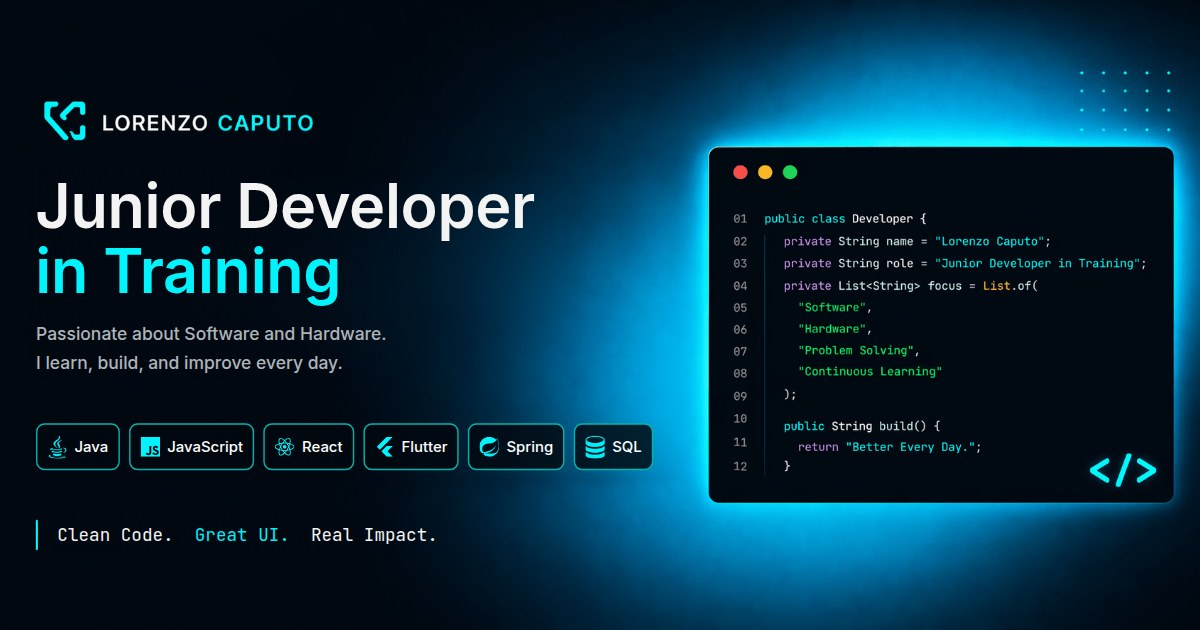
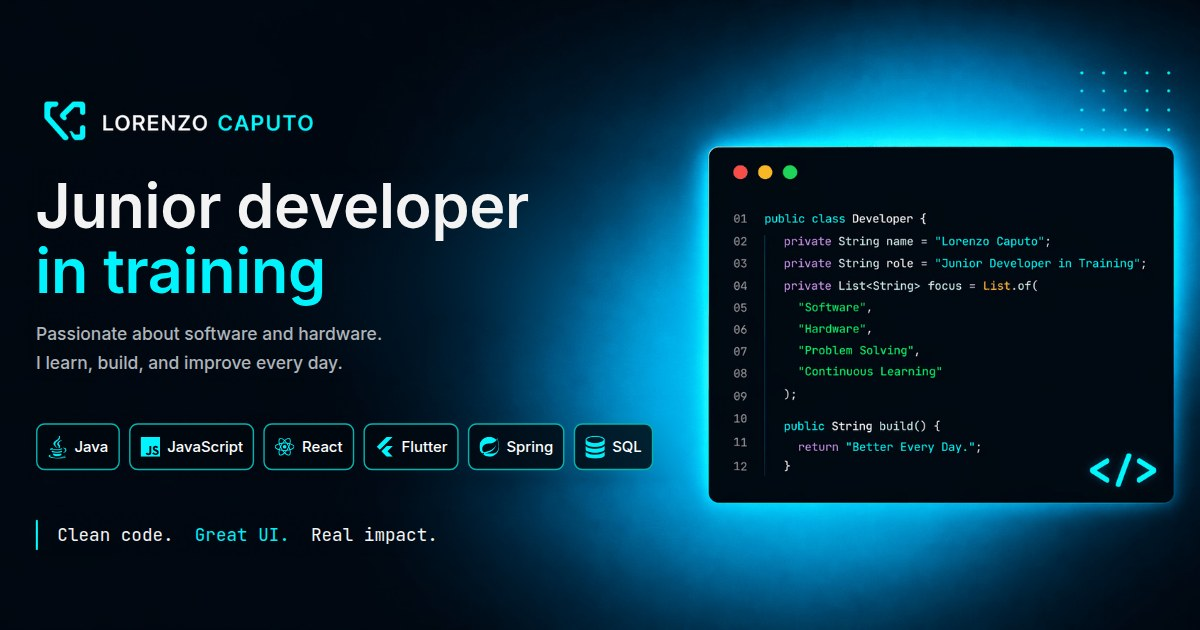
Testi allineati in anteprime social, README, titoli e manifest (#21)

Changed region(s): [[0.185, 0.2714, 0.4625, 0.3921], [0.0617, 0.3921, 0.3083, 0.4825], [0.1542, 0.5127, 0.3392, 0.5429]]

diff --git a/scripts/social-preview/render.js b/scripts/social-preview/render.js
@@ -11,15 +11,15 @@ const root = resolve(here, '../..')
 const previews = {
   it: {
     output: 'public/social-preview-it.jpg',
-    headline: ['Junior Developer', 'in formazione'],
+    headline: ['Junior developer', 'in formazione'],
     subtitle: ['Appassionato di software e hardware.', 'Imparo, costruisco e miglioro ogni giorno.'],
     tagline: ['Codice pulito.', 'UI curata.', 'Impatto reale.'],
   },
   en: {
     output: 'public/social-preview-en.jpg',
-    headline: ['Junior Developer', 'in Training'],
-    subtitle: ['Passionate about Software and Hardware.', 'I learn, build, and improve every day.'],
-    tagline: ['Clean Code.', 'Great UI.', 'Real Impact.'],
+    headline: ['Junior developer', 'in training'],
+    subtitle: ['Passionate about software and hardware.', 'I learn, build, and improve every day.'],
+    tagline: ['Clean code.', 'Great UI.', 'Real impact.'],
   },
 }
 

diff --git a/src/content/en.js b/src/content/en.js
@@ -9,11 +9,11 @@ import {
 
 export const en = {
   meta: {
-    title: 'Lorenzo Caputo | Junior Developer in Training',
+    title: 'Lorenzo Caputo — Portfolio',
     description: 'Portfolio of Lorenzo Caputo, a junior developer in training at ITS Academy Apulia Digital Maker: project, background and skills.',
-    ogTitle: 'Lorenzo Caputo | Junior Developer in Training',
+    ogTitle: 'Lorenzo Caputo — Portfolio',
     ogDescription: 'Junior developer in training: background, skills and the My Tracking App project.',
-    twitterTitle: 'Lorenzo Caputo | Junior Developer in Training',
+    twitterTitle: 'Lorenzo Caputo — Portfolio',
     twitterDescription: 'Junior developer in training: background, skills and the My Tracking App project.',
     ogLocale: 'en_US',
     image: '/social-preview-en.jpg',

diff --git a/tests/portfolio.spec.js b/tests/portfolio.spec.js
@@ -144,7 +144,7 @@ test.describe('prerendered pages', () => {
   test('serve localized content and metadata at / and /en/', async ({ page }) => {
     await page.goto('./en/')
     await expect(page.locator('html')).toHaveAttribute('lang', 'en')
-    await expect(page).toHaveTitle('Lorenzo Caputo | Junior Developer in Training')
+    await expect(page).toHaveTitle('Lorenzo Caputo — Portfolio')
     await expect(page.locator('link[rel="canonical"]')).toHaveAttribute('href', 'https://lorenzocaputo.is-a.dev/en/')
     await expect(page.locator('link[hreflang="it"]')).toHaveAttribute('href', 'https://lorenzocaputo.is-a.dev/')
 

diff --git a/index.html b/index.html
@@ -31,7 +31,7 @@
         "name": "Lorenzo Caputo",
         "url": "https://lorenzocaputo.is-a.dev/",
         "image": "https://lorenzocaputo.is-a.dev/social-preview-it.jpg",
-        "jobTitle": "Junior Developer in Training",
+        "jobTitle": "Junior developer in training",
         "address": { "@type": "PostalAddress", "addressLocality": "Lecce", "addressCountry": "IT" },
         "sameAs": [
           "https://github.com/lorenzocaputodev",

diff --git a/README.md b/README.md
@@ -8,45 +8,46 @@
 
 ## 🇮🇹 Italiano
 
-✨ Portfolio personale sviluppato per presentare in modo chiaro, moderno e coerente il mio percorso, il mio approccio al lavoro e i progetti che sto costruendo.
+✨ Il mio portfolio personale: chi sono, il percorso che sto facendo e i progetti che sto costruendo.
 
-L’idea non è creare un semplice biglietto da visita, ma uno spazio curato dove raccogliere **identità, crescita tecnica e proof of work reale**.
+Non vuole essere un semplice biglietto da visita, ma un posto ordinato dove mostrare **chi sono, come sto crescendo e cosa ho realizzato davvero**.
 
-### 👋 Overview
+### 👋 In breve
 
-Questo portfolio nasce per raccontare in modo credibile chi sono oggi:
+Il sito racconta chi sono oggi:
 
-- **Junior Developer in formazione**
-- orientato a costruire progetti concreti
-- attento a ordine, qualità e dettagli
-- interessato sia al **software** sia al lato **hardware, sistemi e troubleshooting**
+- **junior developer in formazione** all'ITS Academy Apulia Digital Maker
+- con la voglia di costruire progetti concreti
+- attento all'ordine, alla qualità e ai dettagli
+- interessato sia al **software** sia all'**hardware**, ai sistemi e alla risoluzione dei problemi
 
-Il sito mette al centro soprattutto **My Tracking App**, il progetto personale che rappresenta meglio il mio modo di lavorare e il livello di cura che voglio portare nei miei progetti.
+Al centro c'è **My Tracking App**, il progetto personale che mostra meglio il mio modo di lavorare.
 
-### 🎯 Main Goals
+### 🎯 Obiettivi
 
-- presentare il mio profilo in modo professionale ma autentico
-- valorizzare un progetto reale come prova concreta
-- costruire una presenza online ordinata, leggibile e curata
-- mantenere un design premium, ma sobrio e coerente
-- offrire una buona esperienza sia su desktop che su mobile
+- presentarmi in modo professionale ma autentico
+- mostrare un progetto reale, pubblicato e usato
+- avere una presenza online ordinata e facile da leggere
+- un design curato ma sobrio
+- funzionare bene sia su computer sia su telefono
 
-### 🚀 Featured Project — My Tracking App
+### 🚀 Progetto in evidenza — My Tracking App
 
-Applicazione sviluppata per il tracciamento quotidiano di prodotti e utilizzi, con focus su **praticità, chiarezza dei dati e continuità d’uso**.
+App Android sviluppata in Flutter per tenere traccia dei consumi quotidiani, pensata per essere **pratica, chiara e comoda da usare ogni giorno**.
 
-- tracking multi-prodotto
-- dashboard con dati di utilizzo
-- cronologia e analytics
-- reminder periodici
-- widget Android
-- import/export CSV
-- supporto tema dark / light / system
-- approccio local-first
+- più prodotti da seguire, con scorta e costi
+- schermata principale con il conteggio del giorno e gli ultimi 7 giorni
+- cronologia per giorni, settimane e mesi, con statistiche
+- obiettivi, badge e piano di riduzione
+- promemoria periodici
+- widget Android in tre dimensioni
+- backup CSV (esporta e importa)
+- tema scuro, chiaro o di sistema
+- nessun account: i dati restano sul telefono
 
 🔗 Repository progetto: [My Tracking App](https://github.com/lorenzocaputodev/my_tracking_app)
 
-### 🛠 Tech Stack
+### 🛠 Tecnologie
 
 - **Preact** (compatibile con React) + **Vite**, con HTML pre-generato in fase di build per ogni lingua (`/` italiano, `/en/` inglese)
 - **JavaScript**
@@ -99,31 +100,28 @@ public/                     # favicon, icone PWA, manifest, robots.txt, pagina 4
 
 Per modificare i testi basta intervenire in `src/content/en.js` e `src/content/it.js`, mantenendo la stessa struttura in entrambe le lingue.
 
-### 🎨 Frontend / Design Notes
+### 🎨 Design
 
-Questo progetto è stato costruito con attenzione particolare a:
+Nel costruire il sito ho curato in particolare:
 
-- gerarchia visiva
-- qualità del layout e degli spazi
-- coerenza tipografica
-- performance frontend
-- responsive behavior
-- micro-animazioni leggere e non invasive
+- gerarchia visiva, spazi e tipografia
+- velocità di caricamento
+- resa su schermi di ogni dimensione
+- animazioni leggere e mai invadenti
 - accessibilità
 
-Non è stato pensato come un template generico, ma come un portfolio personale con una direzione visiva precisa.
+Non è un template: è un portfolio personale con uno stile preciso.
 
-### 🤖 Notes
+### 🤖 Note
 
-Questo portfolio è stato progettato, curato e rifinito da me, con supporto mirato di strumenti AI in alcune fasi del lavoro, soprattutto per:
+Ho progettato e rifinito questo portfolio in prima persona, usando strumenti di AI come supporto in alcune fasi:
 
 - revisione del codice
-- refactor frontend
-- polishing del copy
-- ottimizzazione della struttura
-- refinement visivo e tecnico
+- riorganizzazione del frontend
+- revisione dei testi
+- rifiniture grafiche e tecniche
 
-L’AI è stata usata come supporto, non come sostituzione del mio lavoro: direzione, scelte finali, contenuti, validazione e rifinitura del progetto sono stati gestiti da me.
+L'AI è stata un aiuto, non un sostituto: direzione, scelte finali, contenuti e verifica sono miei.
 
 ### 📫 Contatti
 
@@ -137,41 +135,42 @@ Grazie per aver dato un’occhiata al progetto ✨
 
 ## 🇬🇧 English
 
-✨ A personal portfolio built to present my path, my approach to work and the projects I'm building in a clear, modern and consistent way.
+✨ My personal portfolio: who I am, the path I'm on and the projects I'm building.
 
-The goal isn't a simple business card, but a curated space that brings together **identity, technical growth and real proof of work**.
+It isn't meant to be a simple business card, but a tidy place to show **who I am, how I'm growing and what I've actually built**.
 
 ### 👋 Overview
 
-This portfolio aims to give an honest picture of who I am today:
+The site shows who I am today:
 
-- **Junior Developer in training**
-- focused on building concrete projects
+- **junior developer in training** at ITS Academy Apulia Digital Maker
+- keen on building concrete projects
 - attentive to order, quality and details
-- interested in both **software** and **hardware, systems and troubleshooting**
+- interested in both **software** and **hardware**, systems and troubleshooting
 
-The site centers on **My Tracking App**, the personal project that best represents how I work and the level of care I want to bring to my projects.
+At its center is **My Tracking App**, the personal project that best shows how I work.
 
 ### 🎯 Main Goals
 
-- present my profile in a professional yet authentic way
-- showcase a real project as concrete proof
-- build a tidy, readable and well-crafted online presence
-- keep a premium but restrained and consistent design
-- offer a good experience on both desktop and mobile
+- present myself in a professional yet authentic way
+- show a real project, published and in use
+- have a tidy, easy-to-read online presence
+- a polished but restrained design
+- work well on both computers and phones
 
 ### 🚀 Featured Project — My Tracking App
 
-An app for daily tracking of products and usage, focused on **practicality, clear data and continuity of use**.
+An Android app built with Flutter to keep track of daily consumption, designed to be **practical, clear and easy to use every day**.
 
-- multi-product tracking
-- usage dashboard
-- history and analytics
+- multiple products, with stock and costs
+- home screen with today's count and the last 7 days
+- history by day, week and month, with statistics
+- goals, badges and a reduction plan
 - periodic reminders
-- Android widgets
-- CSV import/export
-- dark / light / system theme
-- local-first approach
+- Android widgets in three sizes
+- CSV backup (export and import)
+- dark, light or system theme
+- no account: data stays on the phone
 
 🔗 Project repository: [My Tracking App](https://github.com/lorenzocaputodev/my_tracking_app)
 
@@ -205,9 +204,9 @@ The project structure is described in the Italian section above. To edit the cop
 
 ### 🤖 Notes
 
-I designed, curated and refined this portfolio myself, with targeted support from AI tools in some phases of the work, mainly for code review, frontend refactoring, copy polishing, structure optimization and visual/technical refinement.
+I designed and refined this portfolio myself, using AI tools as support in some phases: code review, frontend restructuring, copy review and visual/technical polish.
 
-AI was used as support, not as a replacement for my work: direction, final choices, content, validation and finishing were handled by me.
+AI was a help, not a replacement: direction, final choices, content and validation are mine.
 
 ### 📫 Contacts
 
